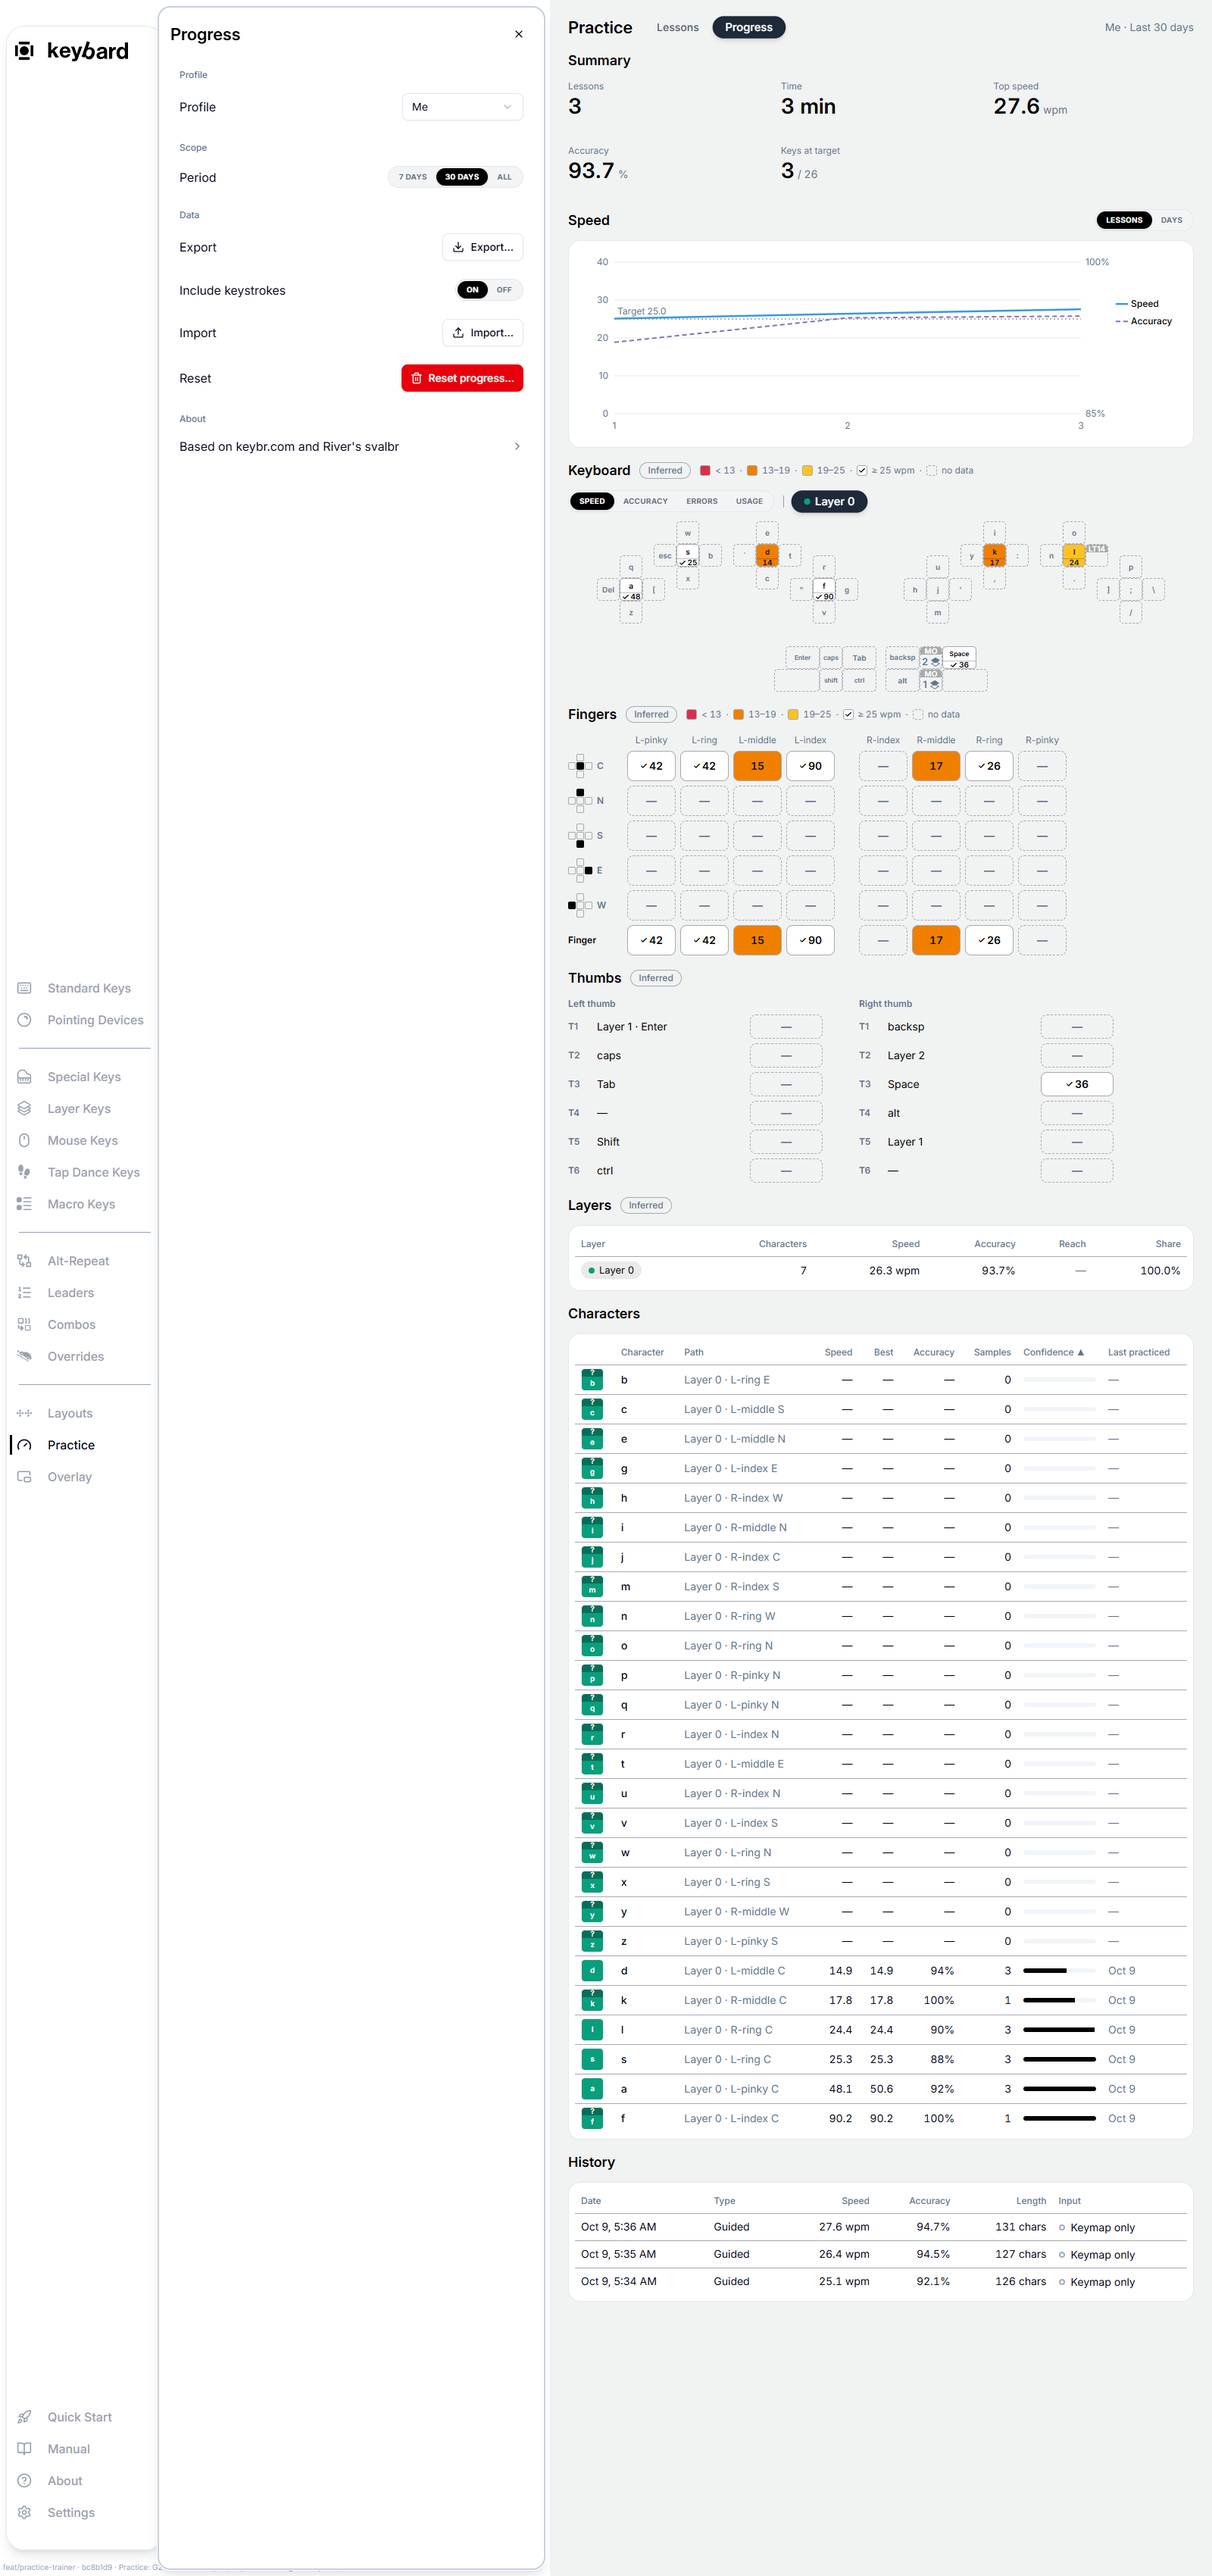
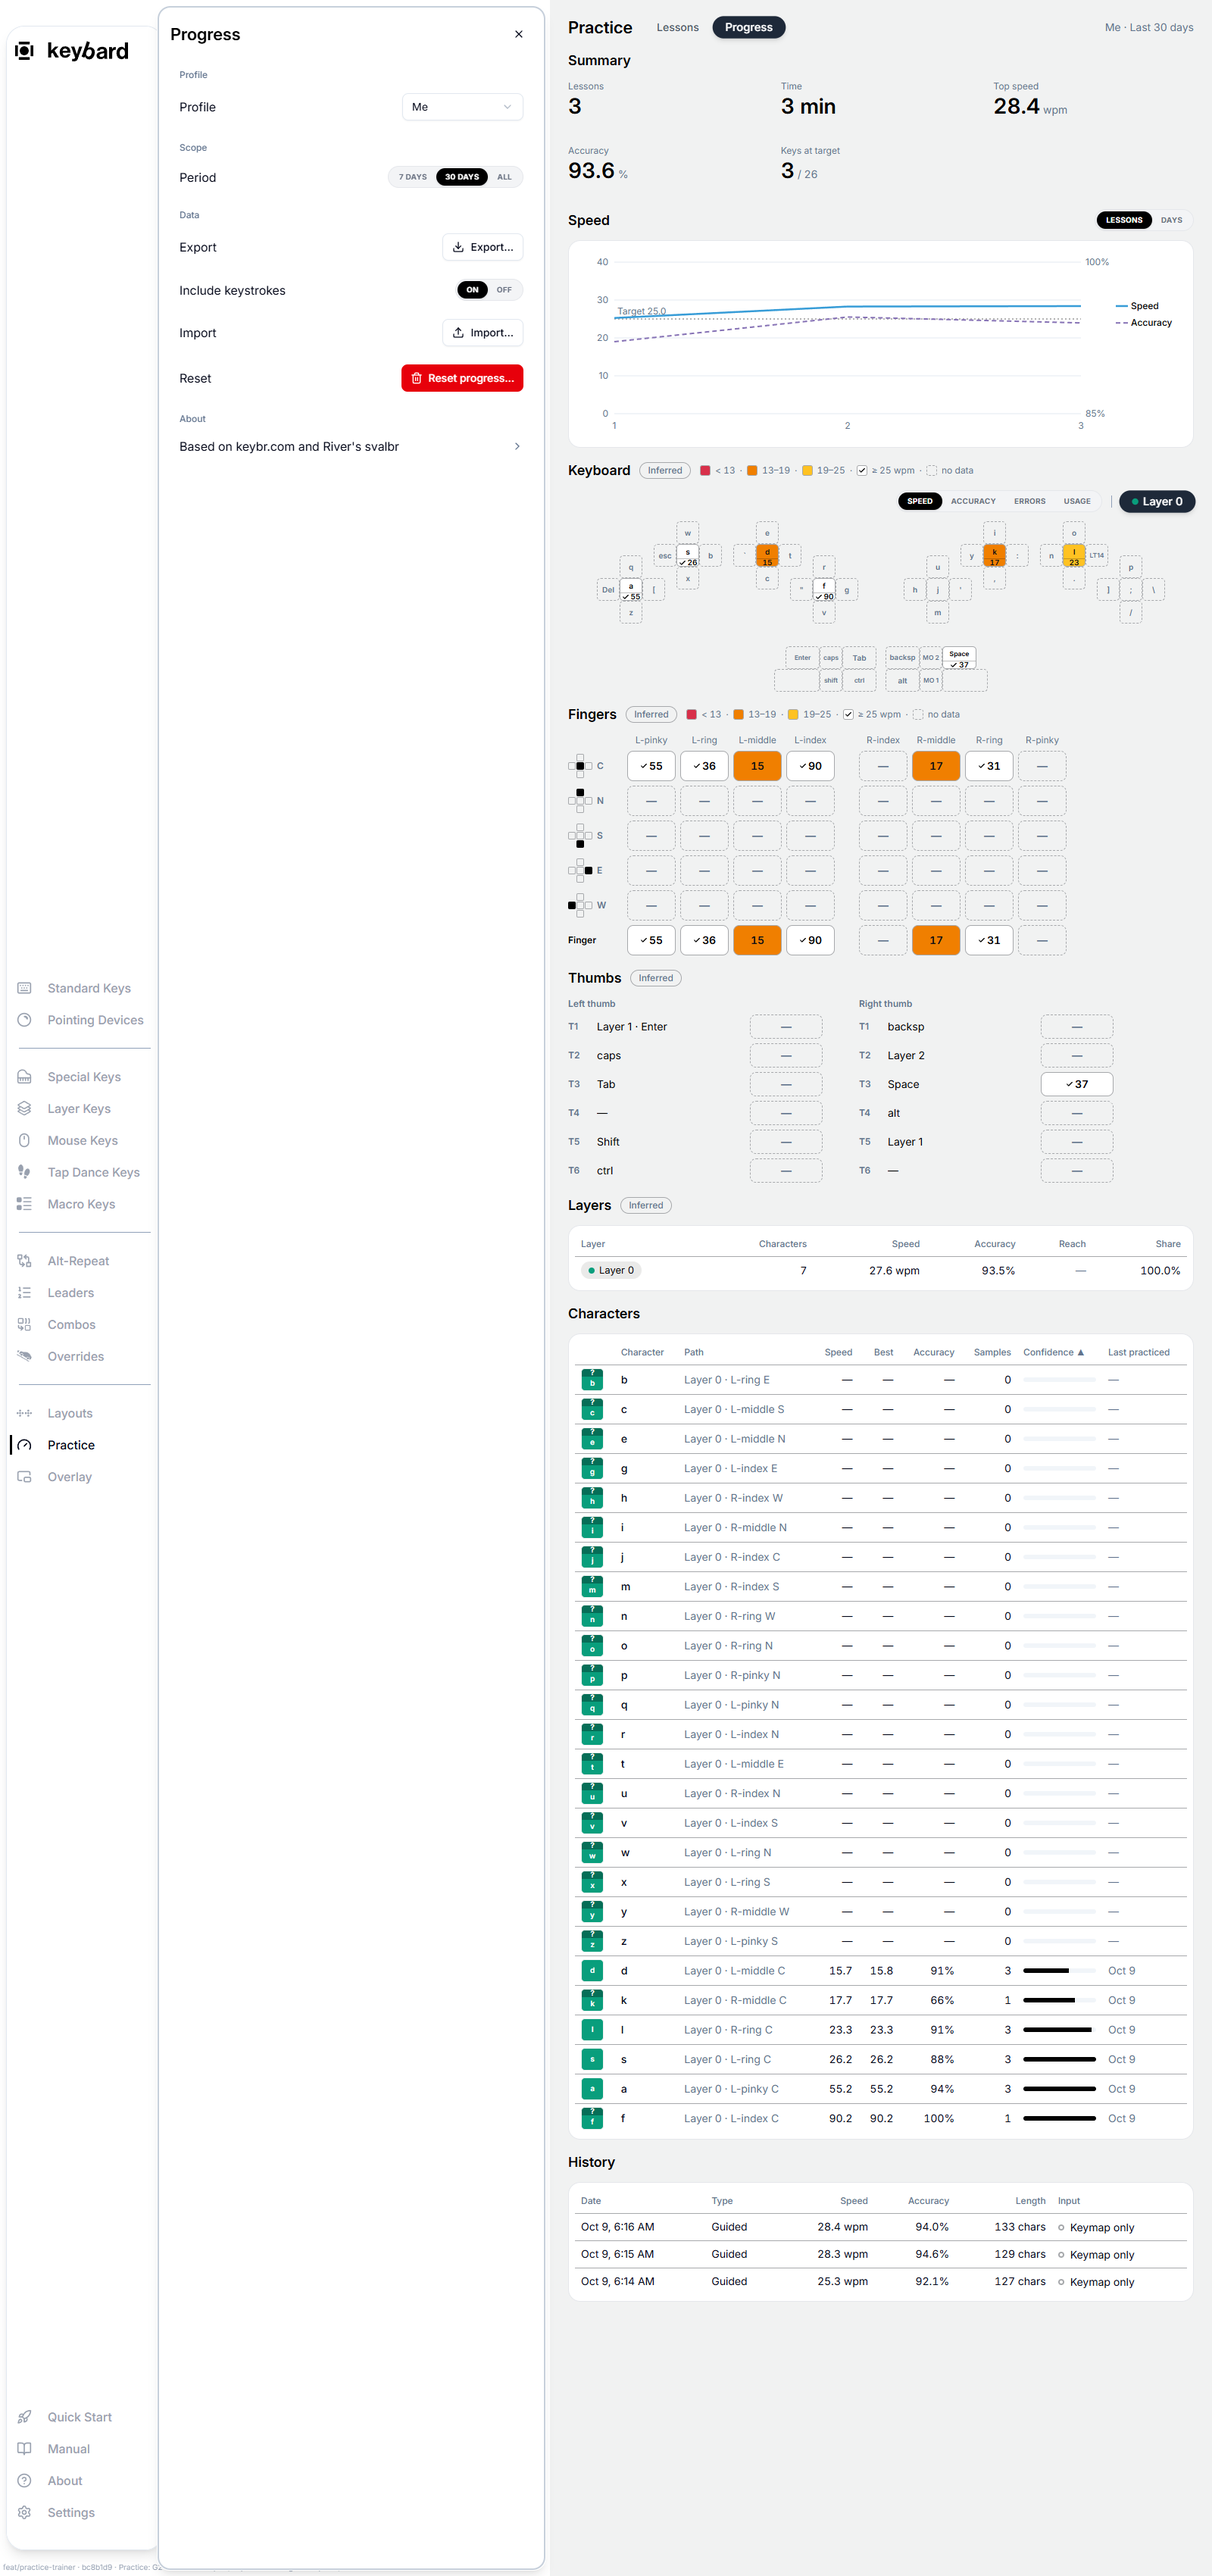
M4 notes: review findings and their dispositions; refreshed screenshots
Records M4-R1..R8 (all fixed), deviations 18-20, the Q9 stubs, the
reset transaction, and the re-run checks and bundle sizes. Screenshots
show the plain layer-key legends and the right-aligned heatmap toolbar.

diff --git a/docs/practice/notes/M4.md b/docs/practice/notes/M4.md
@@ -39,7 +39,7 @@ Milestone M4 from [spec.md](../spec.md) §12 (§5.0.2, §5.7, §5.8, §5.9, §6.
 
 | Criterion | Status |
 |---|---|
-| Heatmap values match the character table for the same scope | Done: `progressAggregates.test.ts` (numbers) and `progressDepth.test.tsx` (rendered Speed and Accuracy footers against the table's columns). |
+| Heatmap values match the character table for the same scope | Done: `progressAggregates.test.ts` (numbers), `heatValues.test.ts` (41 of 42 prints 97% in both; 174.9 cpm prints 34.9 and 34) and `progressDepth.test.tsx` (lessons with misses, so accuracies are fractional; rendered WPM, CPM and Accuracy footers compared as strings with the table's cells). Fixed after review (M4-R1). |
 | Keys at target show the plain face and the check; no heat face shows a layer color | Done: `progressDepth.test.tsx`, `heat-faces.test.ts`; screenshots `m4-03`…`m4-06`. |
 | Heat-face text meets 4.5:1 in both themes | Done: `heat-faces.test.ts` over every face class the code uses (the MC contrast test already covered the token pairs). |
 | Inferred labels appear by rule | Done: section chips when more than 50% of hits are inferred (`mostlyInferred`); P5 Inferred only per character; Layer reach never with inferred data. |
@@ -55,7 +55,7 @@ Scope items: G1 Keyboard heatmap, Fingers, Thumbs, Layers, History: done. G2 Dat
 2. **Errors** = (misses expected on the key + strays pressed on it) / (hits + misses + strays). The spec's "share of its presses" leaves the denominator open; a key hit only by mistake reads 100%.
 3. **Usage** counts a key's presses as hits + strays + prerequisite presses (the reach samples), so Shift and layer thumbs have usage too. Quartiles are taken over the keys shown on the heatmap, and separately over the Fingers and Thumbs cells.
 4. **A key transparent on the chosen layer** shows no data there: its character belongs to the layer it falls through to.
-5. **Printed values round toward "needs work"**: speed and accuracy down, errors up, so a key just short of target never prints the target value. The Speed scale prints whole numbers (`< 13 · 13–19 · 19–25 · ✓ ≥ 25 wpm`).
+5. **Printed values round toward "needs work"**: speed and accuracy down, errors up, so a key just short of target never prints the target value. One formatter pair (`formatSpeedDown`, `formatPercentDown` in `ui/format.ts`) prints a character's speed, best, accuracy and confidence everywhere they sit beside a target: the heatmap, the Characters table, P5 and the key strip's tips, so all of them agree (the heatmap prints whole WPM, the table one decimal). Other figures (Summary, the last lesson, Layers, History) still round to nearest. The Speed scale prints whole numbers (`< 13 · 13–19 · 19–25 · ✓ ≥ 25 wpm`).
 6. **Thumbs' layer reach** shows for any thumb held as a prerequisite at least as often as it was tapped (Shift too), not only layer holds.
 7. **P5 aggregate numbers**: Best is the group's best per-lesson speed, Samples its hits, Confidence its speed over the target, To target `—`; a layer-hold thumb shows **Layer reach** in place of Speed. Its sparkline is the group's per-lesson speed.
 8. **Drill this group** shows only when the group has at least 3 characters Drill can drill (otherwise the drill would open on Nothing to drill). A group's results are stored with `x.scope.group = 'keys'` like Drill this key, and History reads them `Drill · Chosen keys`. The type row reads the group's name (`DrillSettings.name`).
@@ -63,24 +63,27 @@ Scope items: G1 Keyboard heatmap, Fingers, Thumbs, Layers, History: done. G2 Dat
 10. **P5 Inferred only** is per character: every lesson in scope containing it had no observed hit. Results don't keep per-character confidence.
 11. **Stray window**: strays are the unused presses between the previous attributed step and this one; presses before the lesson's first keystroke and after its last are not between two steps and are ignored.
 12. **The OS layout notice** shows while Live · USB is *available*, not only while the text has focus, so it stays while its select is open. The layout's short name drops "English (…)": `US`, `UK`; others use Keybard's label.
-13. **Reset** deletes the profile's results, events and snapshot but keeps the profile (Start does not come back). Its confirm also prints `N lessons will be deleted` (the spec gives that line only to Replace).
+13. **Reset** deletes the profile's results, events and snapshot in one transaction (`PracticeStore.clearProgress`) but keeps the profile (Start does not come back). Its confirm also prints `N lessons will be deleted` (the spec gives that line only to Replace), and a failure shows `Reset failed` in the Reset row, as Export and Import do.
 14. **Import and Reset are unavailable when a newer Keybard wrote the profile** (read-only, §8.6) as well as with Storage off, with the value `Not available · progress was saved by a newer Keybard`.
 15. **After an import** the Import row reads `N lessons imported` (not in the spec).
 16. **Key.tsx gained an optional `footer` strip** (no tint, styled by `footerClassName`) for the heat values; no existing caller changes.
 17. A heatmap key that types a character with no samples is still a button (P5 shows **No samples yet** and Drill this key); keys that type nothing and have no samples (modifiers, navigation) are not buttons.
+18. **Heat legends are plain text on every key** (§5.0.2: no header strip, no tinted bottom strip). A key that types no character reads `MO 1` for a layer key, and otherwise Key.tsx's center label (an LT key its tap key, `Enter`), so the layer part of an LT key is not on its face; Thumbs names it. Icons such as a mouse key's keep an untinted header in the face's text color.
+19. **A Layers row's group is every character whose primary path is on the layer** (`charsOnLayer`), practiced or not, for its chips and Drill this group, as Fingers and Thumbs groups take every character on their keys. The Characters column still counts only the characters with samples.
+20. **A heatmap key's P5 for a key that types no character** (Space, Enter) is scoped to the shown layer throughout: totals, sparkline and Best.
 
 ## OWNER_Q usage
 
 - **Q5** (event retention): unchanged; pruned lessons simply drop out of Pressed instead and P5's reach.
-- **Q9** (color-blind heat palette): no, so one palette and no setting (`ui/progress/heat.ts` says so).
+- **Q9** (color-blind heat palette): no, so one palette and no setting. `ui/progress/heat.ts` reads it as `COLOR_BLIND_HEAT_SETTING`, with a `TODO(practice)` listing what a yes needs, and the Progress panel's `HeatColorsRow` stub shows only when it is true.
 - **Q10** (color roles): the select role on every open P5 opener, red only for the destructive buttons, errors and the far heat face's own token.
 - Q4, Q6, Q7, Q11, Q12: unchanged from M2/M3. Q1, Q2, Q3, Q8 not read by M4 code.
 - No new owner question.
 
 ## Stubbed or deferred
 
-- No `TODO(practice)` left for M4. M5 (Live · Host) stays out (OWNER_Q3 no).
-- The color-blind palette (OWNER_Q9) is not built.
+- M5 (Live · Host) stays out (OWNER_Q3 no).
+- The color-blind palette (OWNER_Q9) is not built. Two `TODO(practice)` stubs mark where it goes: `COLOR_BLIND_HEAT_SETTING` in `ui/progress/heat.ts` (the token set and face map) and `HeatColorsRow` in `ui/progress/ProgressPanel.tsx` (the SegmentedControl). Flipping `OWNER_Q9_COLORBLIND_HEAT_SETTING` to true shows the row as a static `Standard` until they are built.
 - A language select stays hidden (§7.2).
 
 ## Needs Mule testing
@@ -97,11 +100,28 @@ Use the Mule, never the daily-driver half.
 
 - `npx tsc --noEmit -p .` and `npm test` before every commit (final: 229 files, all passing; one run before the first commit had a timing failure in `tests/contexts/BackupContext.test.tsx`, untouched by M4, which passed alone and in the next full run).
 - `npm run check:bundle` (`npm run build`, `npm run build:paranoid`, the §9.8 budgets): all pass. Practice in the entry chunk 1.4 KB gzip; practice lazy chunks 106 KB gzip (M3: 90); English content 60 KB gzip; Paranoid growth 502 KB (budget 550). Recorded in spec §9.8.
+- After the review fixes: `npx tsc --noEmit -p .` and `npm test` before each fix commit (final: 230 files, 1881 tests, all passing) and `npm run check:bundle` before the push (both builds and the budgets pass; practice lazy chunks 107 KB gzip, entry 1.4 KB, Paranoid growth 504 KB of 550, so 46 KB left). The headless Chrome run was repeated and `m4-screens/` refreshed: plain `MO 1` / `MO 2` legends with no strips, the toolbar at the right, and still no horizontal page scroll at 760 px.
 - Headless Chrome against the dev server with the QWERTY example: Start, three lessons typed with varied speeds and a few misses, then Progress in light and dark, Speed / Errors / Usage heatmaps, a Fingers cell's P5, the Progress panel's Data rows and the Reset confirm, and 760 px with no horizontal page scroll. Screenshots in `m4-screens/`.
 
 ## Follow-ups
 
-- Paranoid has 48 KB of its 550 KB budget left; M5 or later work should measure before adding much.
-- The heatmap draws layer keys (MO, LT) with Key.tsx's own layer-key renderer, header strip included; their faces are the no-data look, but a heat-specific layer-key legend would read cleaner.
+- Paranoid has 46 KB of its 550 KB budget left after the review fixes; M5 or later work should measure before adding much.
 - Popover state on Progress is one opener at a time per section; opening a second popover in the same section closes the first through Radix's outside-interaction rule (works with a pointer; jsdom tests open one at a time).
 - Firefox check (unchanged from M1b).
+
+## Review
+
+An independent review of 238c0af..8752422 raised eight findings. Each was checked against the code; all eight were real and are fixed.
+
+| Id | Severity | Disposition |
+|----|----------|-------------|
+| M4-R1 | major | **Fixed** (b1617e7). The heatmap floored speed and accuracy while the Characters table rounded to nearest (41 of 42: `97%` on the key, `98%` in the table). Both now print through `formatSpeedDown` / `formatPercentDown` (with a float-error allowance, so 0.29 is `29%`), and so do P5 and the key strip's tips. `heatValues.test.ts` covers 41 of 42 and 174.9 cpm; `progressDepth.test.tsx` now types misses, checks that the data has a value where the two roundings differ, and compares the visible strings directly in WPM, CPM and Accuracy. With the table's old rounding the test fails (`87%` against `88%`). |
+| M4-R2 | minor | **Fixed** (f965cb8). `PracticeStore.clearProgress` deletes results, events and the snapshot in one readwrite transaction (IndexedDB and the memory twin, in the store contract, which also checks another profile is untouched); `controller.resetProgress` uses it. The Progress panel catches a failure and shows `Reset failed` in the Reset row. `progressData.test.tsx` uses a store whose `clearProgress` rejects: the alert shows and every lesson and event stays. |
+| M4-R3 | minor | **Fixed** (f965cb8). The controller's `historyRevision` is bumped by every Import and Reset and is part of the Progress page's event-stats key and the key strip's `eventsKey`. `progressDepth.test.tsx` replaces two lessons with misses by two clean ones (same count) and finds no Pressed instead afterwards; it fails without the revision in the key. |
+| M4-R4 | minor | **Fixed** (c7c8841). A Layers row's group takes `charsOnLayer(resolution, layer)`, every character whose primary path is on the layer, for its chips, Drill this group and the 3-character gate; `LayerRow.chars` is gone and `characters` stays the sampled count. Tests in `progressAggregates.test.ts` and `progressDepth.test.tsx` (Layer 0 after one lesson: `+ n` chips for the whole layer, and Drill this group drills more than the practiced characters). Deviation 19. |
+| M4-R5 | minor | **Fixed** (c7c8841). `heat.ts` imports `OWNER_Q9_COLORBLIND_HEAT_SETTING` as `COLOR_BLIND_HEAT_SETTING` with a `TODO(practice)` for the palette; `ProgressPanel.tsx` gates a `HeatColorsRow` stub on it with its own `TODO(practice)`. Tests: the switch follows Q9, and no Heat colors row shows while Q9 is no. |
+| M4-R6 | minor | **Fixed** (c7c8841). Every heat face's legend is plain text: `heatLegend` gives `MO 1` for a layer key and Key.tsx's center label otherwise, so no key gets the `bg-black/30` MO/LT header or modifier badge, and a no-data key never draws a bottom strip. `HEAT_HEADER` untints any icon strip Key.tsx still draws. `progressDepth.test.tsx` asserts no `bg-black` inside any heat key and finds `MO 1` with no footer; it fails on the old code. Deviation 18. |
+| M4-R7 | minor | **Fixed** (c7c8841). `groupSeries` takes an optional layer and `groupStats` passes it; the heatmap's single-key groups use the shown layer, so totals, sparkline and Best share one scope. Test in `progressAggregates.test.ts`. Deviation 20. |
+| M4-R8 | minor | **Fixed** (c7c8841). The heatmap toolbar has `justify-end`, at the right under the title row as in M-22. Asserted in `progressDepth.test.tsx`. |
+
+No new owner question. Nothing in the fixes needs the Mule beyond the list above (Reset's single transaction runs against real IndexedDB in item 5).
